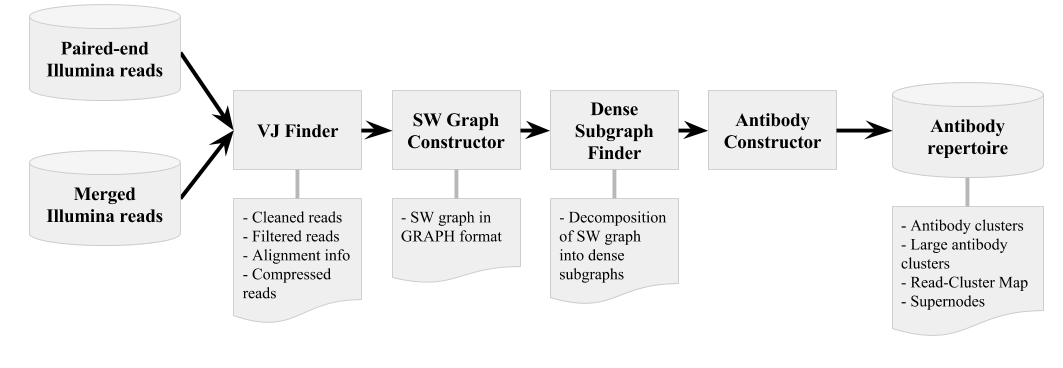
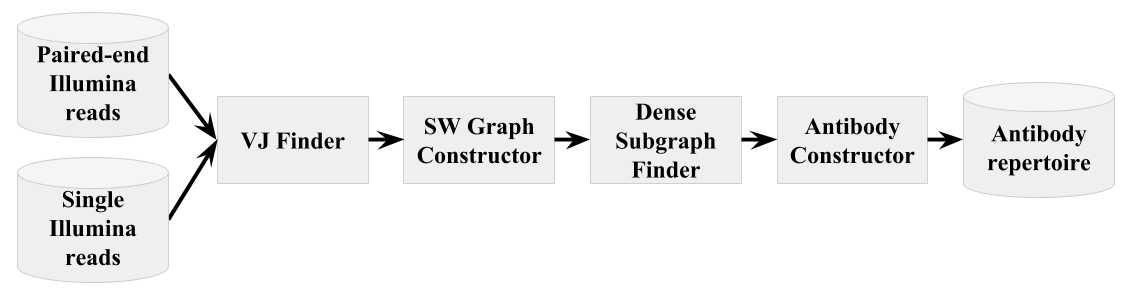
manual edits

diff --git a/manual.html b/manual.html
@@ -1,4 +1,4 @@
-<html><head><meta http-equiv="Content-Type" content="text/html; charset=ISO-8859-1">
+<><head><meta http-equiv="Content-Type" content="text/html; charset=ISO-8859-1">
     <title>IgRepertoireConstructor 2.0 Manual</title>
     <style type="text/css">
         .code {
@@ -12,6 +12,8 @@
 <br>
 <h1>IgRepertoireConstructor 2.0 manual</h1>
 1. <a href="#intro">What is IgRepertoireConstructor?</a><br>
+&nbsp;&nbsp;&nbsp;&nbsp;1.1 <a href = "#about_igrepcon">About IgRepertoireConstructor</a><br>
+&nbsp;&nbsp;&nbsp;&nbsp;1.2 <a href = "#about_ms_analyzer">About MassSpectraAnalyzer</a><br>
 
 2. <a href="#install">Installation</a><br>
 &nbsp;&nbsp;&nbsp;&nbsp;2.1. <a href="#test_datasets">Verifying your installation</a><br>
@@ -33,6 +35,7 @@
 6.  <a href="#repertoire_files">Antibody repertoire representation</a><br>
 &nbsp;&nbsp;&nbsp;&nbsp;6.1. <a href="#clusters_fasta">CLUSTERS.FASTA file format</a><br>
 &nbsp;&nbsp;&nbsp;&nbsp;6.2. <a href="#read_cluster_map">RCM file format</a><br>
+&nbsp;&nbsp;&nbsp;&nbsp;6.3. <a href="#alignment_info">Alignment Info file format</a><br>
 
 7. <a href="#feedback">Feedback and bug reports</a><br>
 &nbsp;&nbsp;&nbsp;&nbsp;7.1. <a href="#citation">Citation</a><br>
@@ -47,18 +50,56 @@ IgRepertoireConstructor includes two parts:
     <li><b>IgRepertoireConstructor</b> &mdash; a tool for construction of antibody repertoire from Illumina Ig-Seq library.</li>
     <li><b>MassSpectraAnalyzer</b> &mdash; a tool for analysis of matching mass spectra against constructed repertoire.</li>
 </ul>
-IgRepertoireConstructor pipeline is shown below:<br>
+
+<!--- ---------------------------------------------------------------- -->
+
+<h3 id = "about_igrepcon">About IgRepertoireConstructor</h3>
+IgRepertoireConstructor pipeline in shown below:<br>
 <p align = center>
-<img src="docs/immunogenomics_pipeline.svg" alt="immunogenomics_pipeline" width = 40%>
+    <img src="docs/ig_repertoire_constructor.png" alt="ig_repertoire_constructor_pipeline" width = 70%>
 </p>
 
-IgRepertoireConstructor pipeline by stages is shown below:<br>
-<p align = center>
-<img src="docs/ig_repertoire_constructor.png" alt="ig_repertoire_constructor_pipeline" width = 50%>
+<p align="justify">
+    IgRepertoireConstructor takes as an input paired-end or single Illumina reads.
 </p>
 
-TODO: write shortly about stages of IgRepertoireConstructor.
-Add reference to DSF manual.
+<p align = justify>
+    <b>Please note that IgRepertoireConstructor constructs full-length repertoire and
+        expects that input reads cover variable region of antibody.</b>
+</p>
+
+<p align = justify>
+    IgRepertoireConstructor corrects sequencing and amplification errors and
+    joins together reads corresponding to identical antibodies.
+    Thus, constructed repertoire is a set of <i>antibody clusters</i> characterizing by
+    <i>sequence</i> and <i>abundance</i>.
+    IgRepertoireConstructor provides user with the following information about constructed repertoire:
+</p>
+
+<ul>
+    <li>all antibody clusters,</li>
+    <li>highly abundant antibody clusters,</li>
+    <li>information showing how reads form antibody clusters</li>
+    <li><i>supernodes</i> - groups of identical input reads with high coverage.</li>
+</ul>
+
+IgRepertoireConstructor pipeline consists of the following steps:
+<ol>
+    <li><b>VJ Finder</b>: todo write</li>
+    <li><b>SW Graph Constructor</b>: todo write</li>
+    <li><b>Dense Subgraph Finder</b>: todo write</li>
+    <li><b>VJ Finder</b>: todo write</li>
+</ol>
+
+<p align="justify">
+    If you are interested in details of IgRepertoireConstructor algorithm,
+    please address to our <a href = "http://bioinformatics.oxfordjournals.org/content/31/12/i53.long">paper</a>.
+</p>
+
+<!--- ---------------------------------------------------------------- -->
+
+<h3 id = "about_ms_analyzer">About MassSpectraAnalyzer</h3>
+TODO: write me!
 <!--- ---------------------------------------------------------------- -->
 <!--- ---------------------------------------------------------------- -->
 
@@ -87,7 +128,7 @@ To install IgRepertoireConstructor, type:
     ./prepare_cfg
     </code>
 </pre>
-and after type:
+and:
 <pre class="code">
     <code>
     make
@@ -124,7 +165,7 @@ If the installation of MassSpectraAnalyzer is successful, you will find the foll
 
 <pre class="code">
     <code>
-    Spectras processed: example_HC_chymo_CID.mzid.spectra, example_HC_trypsin_CID.mzid.spectra
+    Spectra processed: example_HC_chymo_CID.mzid.spectra, example_HC_trypsin_CID.mzid.spectra
     Metrics written to &lt;your_installation_directory>/ms_analyzer_test/metrics.txt
     Covered CRDs written to &lt;your_installation_directory>/ms_analyzer_test/covered_cdrs.txt
     PSM on IG regions written to &lt;your_installation_directory>/ms_analyzer_test/psm_on_ig_regions.txt
@@ -155,13 +196,19 @@ To run IgRepertoireConstructor, type:
 <h3>3.1. Basic options:</h3>
 
 <code>-s &lt;filename&gt;</code><br>
-FASTQ file with merged Illumina reads (required). <br><br>
+FASTQ file with merged Illumina reads (required).
+
+<br><br>
 
 <code>-o/--output &lt;output_dir&gt;</code><br>
-Output directory (required). <br><br>
+Output directory (required).
+
+<br><br>
 
 <code>-t/--threads &lt;int&gt;</code><br>
-The number of parallel threads. The default value is 16.<br><br>
+The number of parallel threads. The default value is <code>16</code>.
+
+<br><br>
 
 <code>--test</code><br>
 Running on the toy test dataset. Command line corresponding to the test run is equivalent to the following:
@@ -182,7 +229,7 @@ Printing help.<br><br>
 <code>--tau &lt;int&gt;</code><br>
 Maximum allowed number of mismatches between two reads corresponding to identical antibodies. The default value is 4.<br>
 <b>NOTE:</b> Be careful, using of large value can significantly slow up construction of repertoire or even can be inappropriate.
-Reasonable value of <code>tau</code> option lies between 1 and 6.
+Reasonable value of <code>tau</code> option lies between <code>1</code> and <code>6</code>.
 
 <br><br>
 
@@ -214,7 +261,7 @@ Default value is <code>5</code>.
 
 <a id="repertoire_constructor_examples"></a>
 <h3>3.3. Examples</h3>
-To construct antibody repertoire from Illumina reads <code>reads.fastq</code>, type:
+To construct antibody repertoire from single reads <code>reads.fastq</code>, type:
 <pre class="code">
     <code>
     ./ig_repertoire_constructor.py -s reads.fastq -o output_dir
@@ -232,40 +279,35 @@ and outputs the following files there:
   <ul>
     <li><b>final_repertoire.fa</b> &mdash; CLUSTERS.FASTA file for all antibody clusters of the constructed repertoire
         (details in <a href= "#repertoire_files">Antibody repertoire representation</a>).</li>
-    <li><b>final_repertoire_large.fa</b> &mdash; CLUSTERS.FASTA file for large antibody clusters of the constructed repertoire
+    <li><b>final_repertoire_large.fa</b> &mdash; CLUSTERS.FASTA file for highly abundant antibody clusters of the constructed repertoire
         (minimal cluster size is defined by option <code>--min-size</code>)</li>
     <li><b>final_repertoire.rcm</b> &mdash; RCM file for the constructed repertoire (details in <a href = "#repertoire_files">Antibody repertoire representation</a>).</li>
     <li><b>supernodes.fa</b> &mdash; FASTA file with naive repertoire built using supernodes
-        (minimal size of supernode is defined by option <code>--min-size</code>)</li>
-  </ul>
+        (minimal size supernode is defined by option <code>--min-size</code>)</li>
+  </ul><br>
 
-  <li>VJ finder output output:</li>
-  <ul>
-    <li><b>vj_finder/cleaned_reads.fa</b> &mdash; FASTA file with initial reads, which were correctly reversed, aligned on V and J genes and cropped using VJ finder</li>
-    <li><b>vj_finder/filtered_reads.fa</b> &mdash; FASTA file with initial reads, which were filtered by aligning on V and J genes</li>
-    <li><b>vj_finder/alignment_info.csv</b> &mdash; CSV file with alignment info (consistent with <b>cropped.fa</b>); for each read it stores read ID, best hit V gene position, score and ID and the same for best hit J gene
-  </ul>
-
-  <li>Dense Subgraph Finder output:</li>
-  <ul>
-    <li><b>dense_subgraph_finder/dense_subgraphs.txt</b> &mdash; dense subgraph decomposition in simple format: each line contains cluster label</li>
-    <li><b>dense_subgraph_finder/dense_subgraph_finder.log</b> &mdash; log of DenseSubgraphFinder run</li>
-  </ul>
-
-  <li>Auxiliary files:</li>
+  <li>VJ finder output:</li>
     <ul>
-        <li><b>ig_repertoire_constructor.log</b> &mdash; full log of IgRepertoireConstructor run</li>
-        <li><b>compressed_reads.fa</b> &mdash; FASTA file where identical reads are groupped together.
-            Thus it's guarantied that each read is not prefix of any other read, only unique prefixes are extracted.
-            For each unique prefix-read its <i>abundance</i> (the number of joined reads) is added to its ID.
-            <b>TODO: rewrite it!!! It's very cryptic.</b>
-    </li>
-    <li>
-        <b>cleaned_compressed_map.txt</b> &mdash; file, which stores read compression map provided by igTrieCompressor.
-        This file is consistent with <b>cropped.fa</b>, each line contains the number (zero based) of target prefix-read in <b>compressed.fa</b> file</li>
-        <li><b>sw.graph</b> &mdash; Smith-Waterman graph constructed on compressed reads from <b>compressed.fa</b> in METIS *.graph format
-            (see <a href="http://glaros.dtc.umn.edu/gkhome/fetch/sw/metis/manual.pdf">METIS 5.1.x Manual</a> for format description)
-</ul>
+      <li>
+          <b>vj_finder/cleaned_reads.fa</b> &mdash; FASTA file with cleaned reads constructed by VJ Finder step.
+          Cleaned reads have forward direction (from V to J),
+          surely contain V and J gene segments and
+          cropped by the left bound of V gene segments.
+      </li>
+
+      <li>
+          <b>vj_finder/filtered_reads.fa</b> &mdash; FASTA file with filtered reads.
+          Filtered reads have bad alignment to Ig germline gene segments and likely present contaminations.
+      </li>
+
+      <li>
+          <b>vj_finder/alignment_info.csv</b> &mdash; CSV file containing information about alignment of cleaned reads to
+          V and J gene segments. Details of <b>alignment_info.csv</b> format are given in
+          <a href="#alignment_info">Alignment Info file format</a>.
+      </li>
+    </ul><br>
+
+    <li><b>ig_repertoire_constructor.log</b> &mdash; full log of IgRepertoireConstructor run.</li>
 </ul>
 <br>
 
@@ -436,5 +478,6 @@ Address for communications: <a href="mailto:igtools_support@googlegroups.com">ig
 
 <a id = "citation"></a>
 <h3>7.1. Citation</h3>
-If you use IgRepertoireConstructor in your research, please refer to <a href="http://bioinformatics.oxfordjournals.org/content/31/12/i53.long" target="_blank">Safonova et al., 2015</a>.
+If you use IgRepertoireConstructor in your research, please refer to
+<a href="http://bioinformatics.oxfordjournals.org/content/31/12/i53.long" target="_blank">Safonova et al., 2015</a>.
 </body></html>
